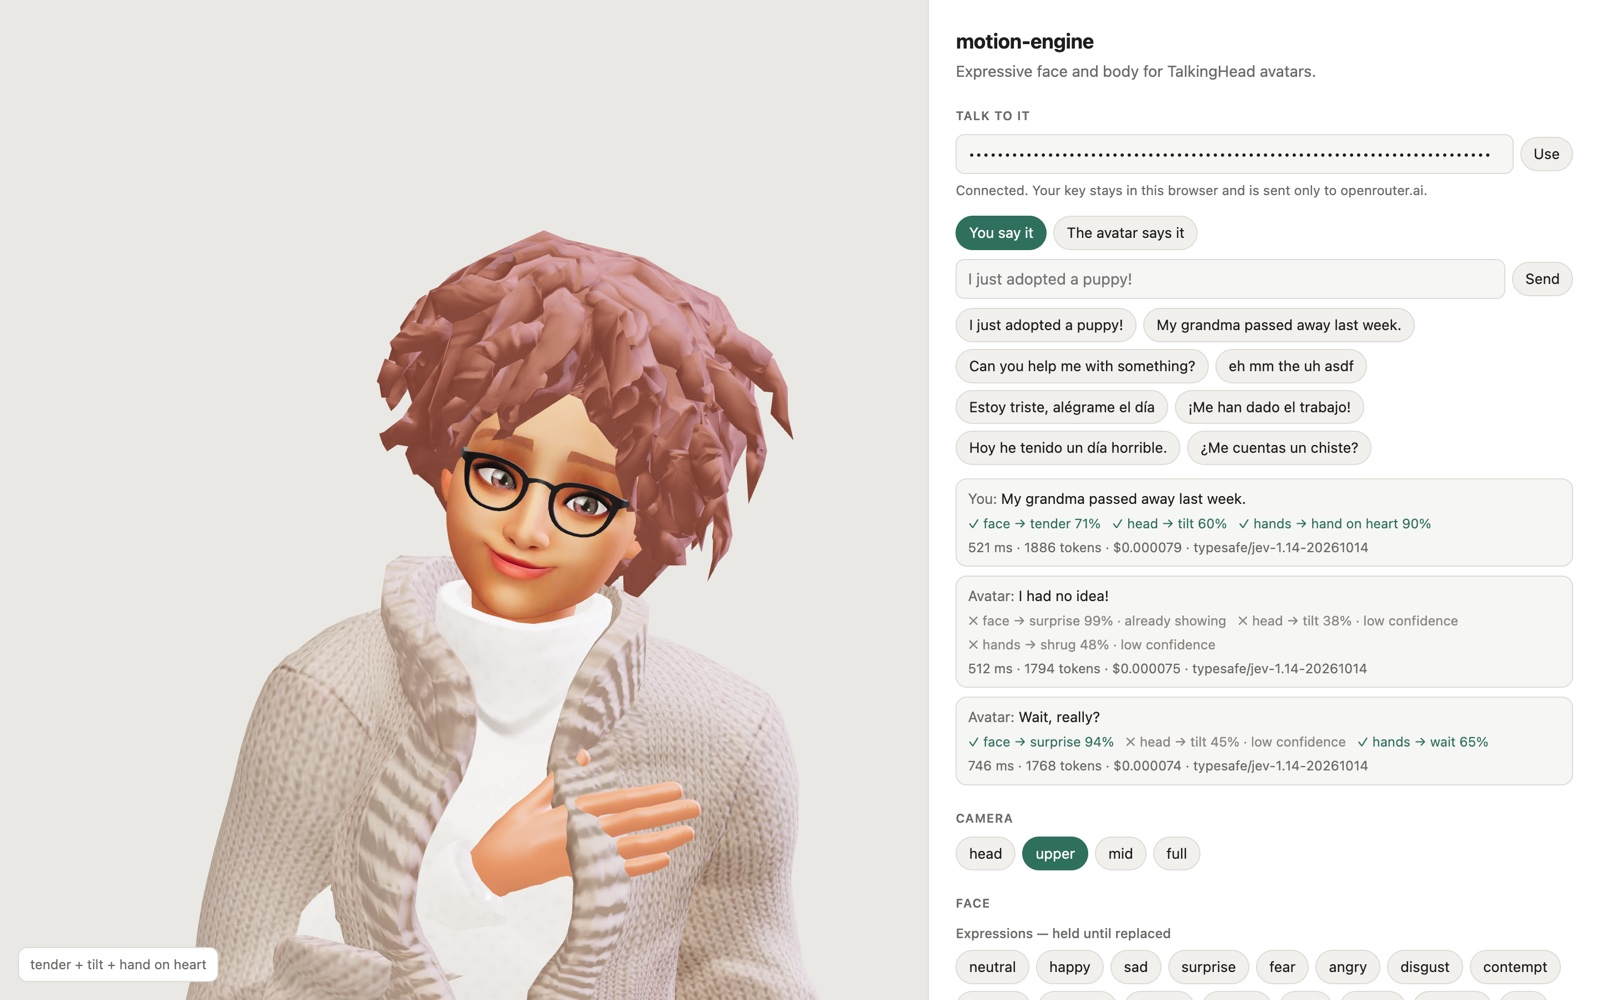
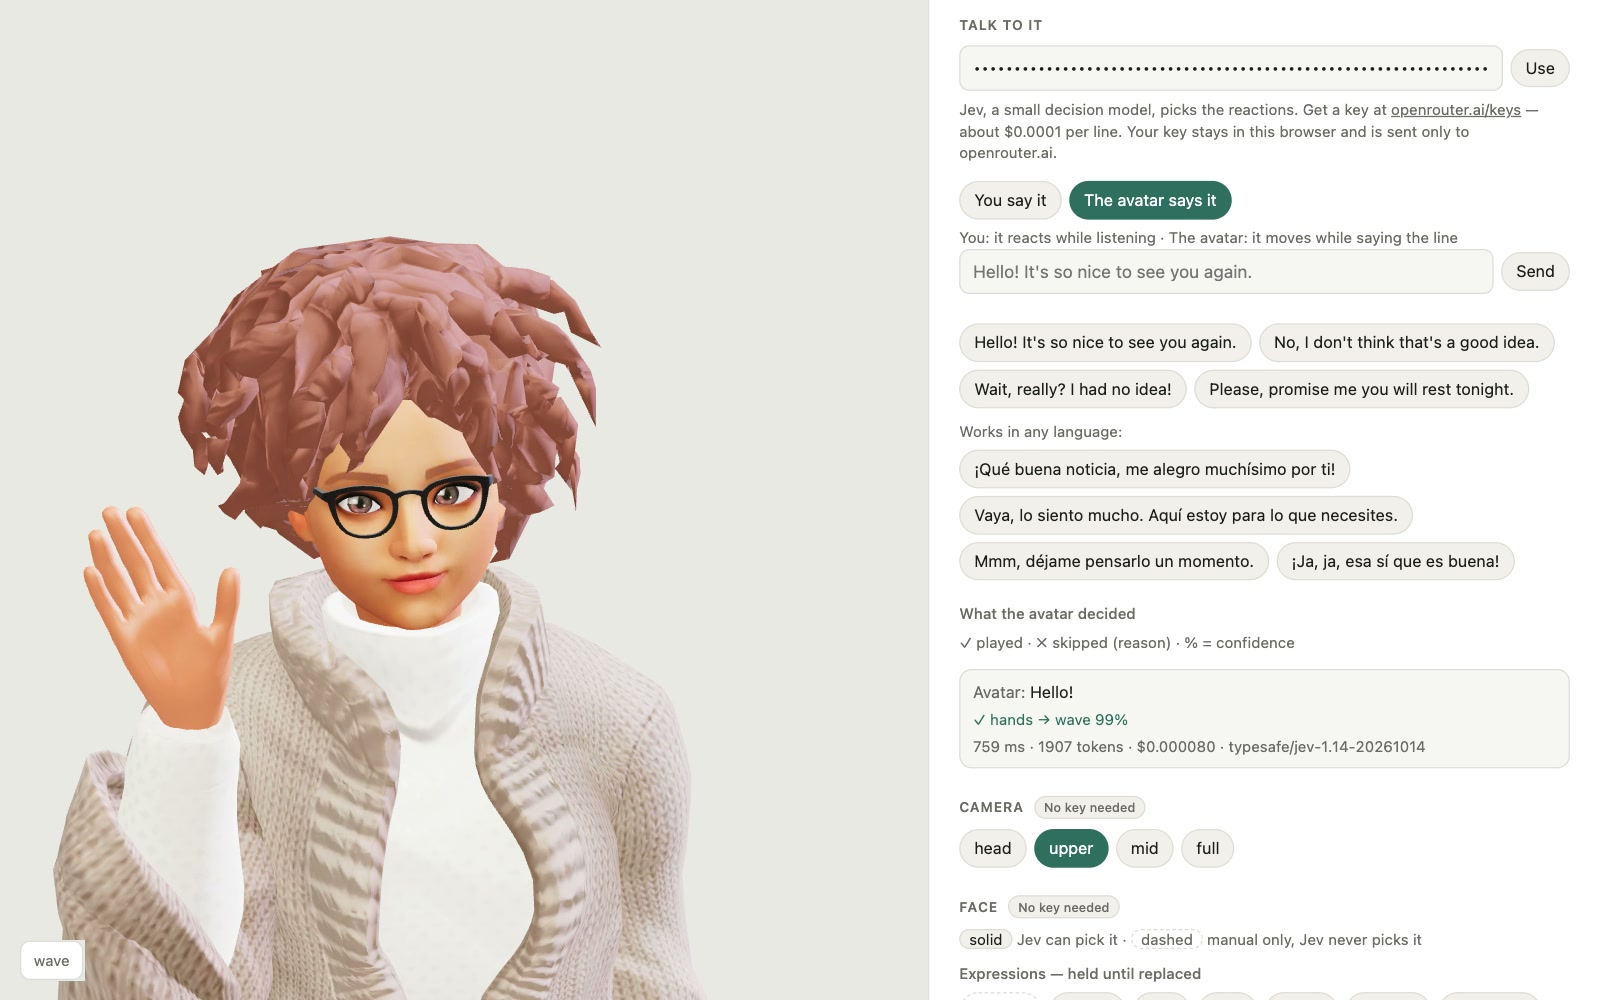
docs: README opens with a short video of a decided greeting
images/demo.jpg is a frame of it, kept for link previews.

Claude-Session: https://claude.ai/code/session_01QNL1rYuWXFEQCXYhsK1D56

diff --git a/README.md b/README.md
@@ -4,7 +4,7 @@ Expressive face and body for [TalkingHead](https://github.com/met4citizen/Talkin
 
 **[Live demo](https://lhupyn.github.io/motion-engine/)** — try expressions and gestures right away; add an OpenRouter key to let Jev react to text.
 
-![motion-engine demo](images/demo.jpg)
+https://github.com/user-attachments/assets/456c9c19-f37a-4aff-8274-5e15c5ce0839
 
 - **The main LLM just talks.** No emoji, no `[happy]` markers, no extra rules in its prompt.
 - **Jev decides.** Each sentence goes to [Jev](https://typesafe.ai), TypeSafe's decision model, which picks an expression, a head movement and a hand gesture, each with a confidence.
